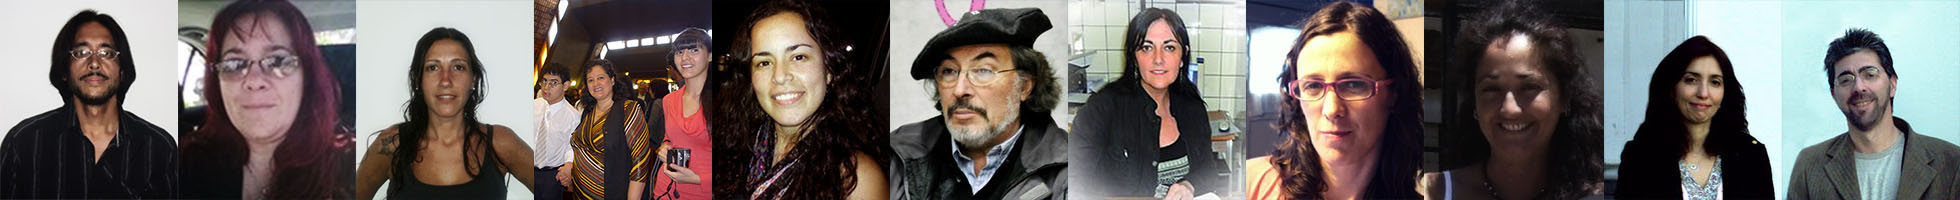
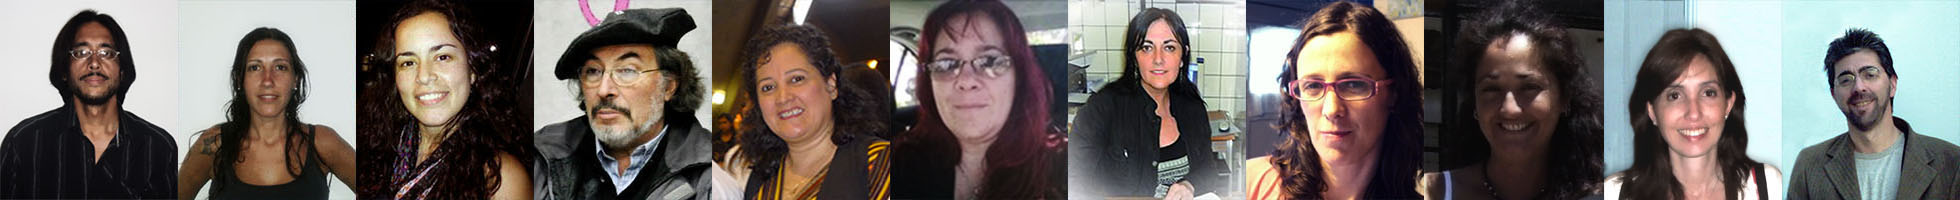
Agosto
Correcciones surgidas del documento presentado por el cliente a fines de
Agosto

diff --git a/pages/fundacion/estructura.html b/pages/fundacion/estructura.html
@@ -9,7 +9,7 @@
 					Licenciado en Terapia Ocupacional de la UNGSM
 				</p>
 				<p>
-					En Itineris es miembro del Equipo de Apoyo Directo del Proyecto de Vida Independiente
+					En Itineris es Coordinador del Movimiento de Autogestores Argentinos
 				</p>
 				<p>
 					Ver CV completo
@@ -20,31 +20,13 @@
 		<li>
 			<a href="#" class="pos2"> <span class="ei_preview"></span> <span class="ei_image"></span> </a>
 			<div class="ei_descr">
-				<h1>Cristina Peduzzi</h1>
-
-				<p>
-					Licenciada en Terapia Ocupacional de la UAI
-				</p>
-				<p>
-					En Itineris es Docente
-				</p>
-				<p>
-					Ver CV completo
-				</p>
-				<div class="cv"><a target="_blank" href="archivos/cv/cristinaP.doc"></a></div>
-			</div>
-
-		</li>
-		<li>
-			<a href="#" class="pos3"> <span class="ei_preview"></span> <span class="ei_image"></span> </a>
-			<div class="ei_descr">
 				<h1>Alejandra Ducet</h1>
 
 				<p>
 					Licenciada en Psicología de la UBA
 				</p>
 				<p>
-					En Itineris es Facilitador de Autogestores
+					En Itineris es Facilitadora de Autogestores y Docente
 				</p>
 				<p>
 					Ver CV completo
@@ -53,24 +35,7 @@
 			</div>
 		</li>
 		<li>
-			<a href="#" class="pos4"> <span class="ei_preview"></span> <span class="ei_image"></span> </a>
-			<div class="ei_descr">
-				<h1>Marta Picca</h1>
-
-				<p>
-					Licenciada en trabajo social
-				</p>
-				<p>
-					En Itineris es Facilitadora de grupos de Autogestores con discapacidad intelectual
-				</p>
-				<p>
-					Ver CV completo
-				</p>
-				<div class="cv"><a target="_blank" href="archivos/cv/familiaG.doc"></a></div>
-			</div>
-		</li>
-		<li>
-			<a href="#" class="pos5"> <span class="ei_preview"></span> <span class="ei_image"></span> </a>
+			<a href="#" class="pos3"> <span class="ei_preview"></span> <span class="ei_image"></span> </a>
 			<div class="ei_descr">
 				<h1>Natalia Galeano</h1>
 
@@ -87,7 +52,7 @@
 			</div>
 		</li>
 		<li>
-			<a href="#" class="pos6"> <span class="ei_preview"></span> <span class="ei_image"></span> </a>
+			<a href="#" class="pos4"> <span class="ei_preview"></span> <span class="ei_image"></span> </a>
 			<div class="ei_descr">
 				<h1>Sergio Coppoli</h1>
 
@@ -95,13 +60,49 @@
 					Licenciado en Psicología de la UNR
 				</p>
 				<p>
-					En Itineris es Facilitador de Autogestores
+					En Itineris es Docente
 				</p>
 				<p>
 					Ver CV completo
 				</p>
 				<div class="cv"><a target="_blank" href="archivos/cv/sergioC.doc"></a></div>
 			</div>
+		</li>
+		
+		<li>
+			<a href="#" class="pos5"> <span class="ei_preview"></span> <span class="ei_image"></span> </a>
+			<div class="ei_descr">
+				<h1>Marta Picca</h1>
+
+				<p>
+					Licenciada en trabajo social
+				</p>
+				<p>
+					En Itineris es Colaboradora
+				</p>
+				<p>
+					Ver CV completo
+				</p>
+				<div class="cv"><a target="_blank" href="archivos/cv/familiaG.doc"></a></div>
+			</div>
+		</li>
+		<li>
+			<a href="#" class="pos6"> <span class="ei_preview"></span> <span class="ei_image"></span> </a>
+			<div class="ei_descr">
+				<h1>Cristina Peduzzi</h1>
+
+				<p>
+					Licenciada en Terapia Ocupacional de la UAI
+				</p>
+				<p>
+					En Itineris es Colaboradora
+				</p>
+				<p>
+					Ver CV completo
+				</p>
+				<div class="cv"><a target="_blank" href="archivos/cv/cristinaP.doc"></a></div>
+			</div>
+
 		</li>
 		<li>
 			<a href="#" class="pos7"> <span class="ei_preview"></span> <span class="ei_image"></span> </a>
@@ -112,7 +113,7 @@
 					Licenciada en Educación especial de la USAL
 				</p>
 				<p>
-					En Itineris es Colaboradora y Tallerista
+					En Itineris es Colaboradora
 				</p>
 				<p>
 					Ver CV completo
@@ -129,7 +130,7 @@
 					Licenciada en Terapia Ocupacional de la UNGSM
 				</p>
 				<p>
-					En Itineris colabora en el área de Investigación
+					En Itineris es Facilitadora de Autogestores y colaboradora
 				</p>
 				<p>
 					Ver CV completo
@@ -146,7 +147,7 @@
 					Licenciado en Terapia Ocupacional
 				</p>
 				<p>
-					En Itineris es Facilitador de Autogestores
+					En Itineris es Facilitadora de Autogestores y docente
 				</p>
 				<p>
 					Ver CV completo

diff --git a/home.html b/home.html
@@ -24,27 +24,22 @@
 				<ul>
 					<li id="diapo1">
 						<p>
-						En Itineris somos profesionales de la salud y la educación, personas con discapacidad intelectual,
-						 sus familiares y también voluntarios. Todos juntos buscamos la inclusión genuina de las
-						  personas con discapacidad en latinoamerica
+						Desde la fundación Itineris buscamos la incusión genuina de las personas con discapacidad en Latinoamérica
 						</p>
 					</li>
 					<li id="diapo2">
 						<p>
-						Desde hace 15 años, producimos cambios significativos en el imaginario social. Así desafiamos las 
-						creencias negativas y limitantes que se imponen de manera paternalista sobre los adultos y niños con discapacidad.
+						Desde 1999 producimos cambios significativos en el imaginario social, desafiando las ceencias negativas y limitantes sobre las personas con discapacidad
 						</p>
 					</li>
 					<li id="diapo3">
 						<p>
-						Nos comprometemos estratégicamente para cambiar las prácticas sociales e institucionales. Queremos la plena inclusión y 
-						el ejercicio de los derechos humanos consagrados en la Convención sobre los derechos de las personas con discapacidad de la ONU
+						Nos comprometemos estratégicamente para cambiar las prácticas sociales e institucionales. Así logramos que las personas con discapacidad sean protagonistas de sus vidas
 						</p>
 					</li>
 					<li id="diapo4">
 						<p>
-						Queremos personas con discapacidad que puedan ser protagonistas de sus vidas. Que se encuentren plenamente incluidas, 
-						en igualdad de oportunidades, como ciudadanos articulados dentro de su comunidad
+						Usamos herramientas propias para que las personas con discapacidad se articulen en sus comunidades como ciudadanos comunes
 						</p>
 					</li>
 				</ul>
@@ -53,7 +48,7 @@
 				<div class="linkHome agrandable">
 					<h1>Congreso de Rosario</h1>
 					<p>
-						3er Congreso internacional de discapacidad Mental, 30 y 31 de Octubre de 2014
+						3er Congreso internacional de discapacidad Intelectual, 30 y 31 de Octubre de 2014
 					</p>
 					<a class="pie" href="http://www.afidi.com.ar/contenidos/2014/04/09/Editorial_2791.php" target="_blank" tabindex="31">Más información</a>
 				</div>
@@ -67,7 +62,7 @@
 				<div class="linkHome agrandable">
 					<h1>Revista nuestros Contenidos</h1>
 					<p>
-						Investigación y práxis Latinoamericana en discapacidad, la primer revista científica latinoamericana sobre discapacidad. 
+						Investigación y praxis Latinoamericana en discapacidad, la primer revista científica latinoamericana sobre discapacidad. 
 
 					</p>
 					<a class="pie" href="biblioteca.html" tabindex="33">Más Información</a>

diff --git a/index.html b/index.html
@@ -24,27 +24,22 @@
 				<ul>
 					<li id="diapo1">
 						<p>
-						En Itineris somos profesionales de la salud y la educación, personas con discapacidad intelectual,
-						 sus familiares y también voluntarios. Todos juntos buscamos la inclusión genuina de las
-						  personas con discapacidad en latinoamerica
+						Desde la fundación Itineris buscamos la incusión genuina de las personas con discapacidad en Latinoamérica
 						</p>
 					</li>
 					<li id="diapo2">
 						<p>
-						Desde hace 15 años, producimos cambios significativos en el imaginario social. Así desafiamos las 
-						creencias negativas y limitantes que se imponen de manera paternalista sobre los adultos y niños con discapacidad.
+						Desde 1999 producimos cambios significativos en el imaginario social, desafiando las ceencias negativas y limitantes sobre las personas con discapacidad
 						</p>
 					</li>
 					<li id="diapo3">
 						<p>
-						Nos comprometemos estratégicamente para cambiar las prácticas sociales e institucionales. Queremos la plena inclusión y 
-						el ejercicio de los derechos humanos consagrados en la Convención sobre los derechos de las personas con discapacidad de la ONU
+						Nos comprometemos estratégicamente para cambiar las prácticas sociales e institucionales. Así logramos que las personas con discapacidad sean protagonistas de sus vidas
 						</p>
 					</li>
 					<li id="diapo4">
 						<p>
-						Queremos personas con discapacidad que puedan ser protagonistas de sus vidas. Que se encuentren plenamente incluidas, 
-						en igualdad de oportunidades, como ciudadanos articulados dentro de su comunidad
+						Usamos herramientas propias para que las personas con discapacidad se articulen en sus comunidades como ciudadanos comunes
 						</p>
 					</li>
 				</ul>
@@ -53,7 +48,7 @@
 				<div class="linkHome agrandable">
 					<h1>Congreso de Rosario</h1>
 					<p>
-						3er Congreso internacional de discapacidad Mental, 30 y 31 de Octubre de 2014
+						3er Congreso internacional de discapacidad Intelectual, 30 y 31 de Octubre de 2014
 					</p>
 					<a class="pie" href="http://www.afidi.com.ar/contenidos/2014/04/09/Editorial_2791.php" target="_blank" tabindex="31">Más información</a>
 				</div>
@@ -67,7 +62,7 @@
 				<div class="linkHome agrandable">
 					<h1>Revista nuestros Contenidos</h1>
 					<p>
-						Investigación y práxis Latinoamericana en discapacidad, la primer revista científica latinoamericana sobre discapacidad. 
+						Investigación y praxis Latinoamericana en discapacidad, la primer revista científica latinoamericana sobre discapacidad. 
 
 					</p>
 					<a class="pie" href="biblioteca.html" tabindex="33">Más Información</a>

diff --git a/pages/consultoria/optimizacion.html b/pages/consultoria/optimizacion.html
@@ -1,12 +1,4 @@
 <p class="texto">
-	El funcionamiento jerárquico de las instituciones es conocido desde el comienzo de la civilización,
-	pero es el funcionamiento horizontal el que se transformó en un factor clave para el desarrollo institucional en las Ãºltimas décadas.
-</p>
-<p class="texto">
-	En el campo de la discapacidad, el trabajo transdisciplinario en equipos y la labor interinstitucional en redes de actores sociales diversos, está en boca de todos y en
-	las intenciones de la mayoría de las organizaciones. Pero su implementación no es sistemática; no sabemos hacer lo que decimos que tenemos que hacer.
-</p>
-<p class="texto">
 	El Programa de optimización institucional le permite
 </p>
 <ul class="listaD">
@@ -23,3 +15,8 @@
 		Detectar cuales son los pasos estratégicos que debe dar.
 	</li>
 </ul>
+
+<p class="texto">
+	En el campo de la discapacidad, el trabajo transdisciplinario en equipos y la labor interinstitucional en redes de actores sociales diversos, está en boca de todos y en
+	las intenciones de la mayoría de las organizaciones. Pero su implementación no es sistemática; no sabemos hacer lo que decimos que tenemos que hacer.
+</p>

diff --git a/js/cons.js b/js/cons.js
@@ -1,6 +1,6 @@
 var navegacion = {};
 
-navegacion["auditoriaycerti"] = "pages/consultoria/auditoriaycerti.html";
+navegacion["audycerti"] = "pages/consultoria/auditoriaycerti.html";
 navegacion["capaysuper"] = "pages/consultoria/capaysuper.html";
 navegacion['consultoria'] = "pages/consultoria/consultoriaprincipal.html";
 navegacion['desaproy'] = "pages/consultoria/desaproy.html";
@@ -35,7 +35,7 @@ $(document).ready(function() {
 		$('#header').html(msg);
 		$.get("footer.html", function(footCont) {
 			$('#footer').html(footCont);
-			$("#fondoHeader").height($("#header").height() - $("#menu").height() - 1);
+			$("#fondoHeader").height($("#header").height() - $("#menu").height() - 5);
 			var altura1 = $("html").height() - $("#header").height() - $("#footer").height() - 5;
 			//el 5 es por el padding
 			var altura2 = $("#cuerpo").height() * 1.1 + $("#cuerpoGrande").height() * 1.1 + $("#cuerpoDonar").height() * 1.1;

diff --git a/pages/consultoria/capaysuper.html b/pages/consultoria/capaysuper.html
@@ -2,9 +2,7 @@
 Las Capacitaciones en equipo constan de 4 a 6 encuentros, de 3 horas cada uno, durante un año, con el objetivo de actualizar contenidos, 
 prácticas y sistemas de evaluación. El contenido de la capacitación se ajusta a los intereses de la organización y se brinda simultáneamente a todos los trabajadores.
 </p>
-<p class="texto">
-En 15 años, la Fundación ITINERIS capacitó 2520 trabajadores, 696 familias, 393 personas con discapacidad intelectual y 140 voluntarios.
-</p>
+
 <p class="texto">
 La Supervisión es la metodología adecuada para aprender sobre cuestiones prácticas y problemas concretos. Pueden realizarla grupos pequeños o grandes 
 de personas que tengan experiencia en reflexionar sobre su trabajo junto con otros, aplicando un marco teórico para guiar su mirada

diff --git a/js/biblio.js b/js/biblio.js
@@ -23,7 +23,7 @@ $(document).ready(function() {
 		$('#header').html(msg);
 		$.get("footer.html", function(footCont) {
 			$('#footer').html(footCont);
-			$("#fondoHeader").height($("#header").height() - $("#menu").height() - 1);
+			$("#fondoHeader").height($("#header").height() - $("#menu").height() - 5);
 			var altura1 = $("html").height() - $("#header").height() - $("#footer").height() - 5;
 			//el 5 es por el padding
 			var altura2 = $("#cuerpo").height() * 1.1 + $("#cuerpoGrande").height() * 1.1 + $("#cuerpoDonar").height() * 1.1;

diff --git a/js/cyt.js b/js/cyt.js
@@ -32,7 +32,7 @@ $(document).ready(function() {
 		$('#header').html(msg);
 		$.get("footer.html", function(footCont) {
 			$('#footer').html(footCont);
-			$("#fondoHeader").height($("#header").height() - $("#menu").height() - 1);
+			$("#fondoHeader").height($("#header").height() - $("#menu").height() - 5);
 			var altura1 = $("html").height() - $("#header").height() - $("#footer").height() - 5;
 			//el 5 es por el padding
 			var altura2 = $("#cuerpo").height() * 1.1 + $("#cuerpoGrande").height() * 1.1 + $("#cuerpoDonar").height() * 1.1;

diff --git a/js/donar.js b/js/donar.js
@@ -16,7 +16,7 @@ $(document).ready(function() {
 		$('#header').html(msg);
 		$.get("footer.html", function(footCont) {
 			$('#footer').html(footCont);
-			$("#fondoHeader").height($("#header").height() - $("#menu").height() - 1);
+			$("#fondoHeader").height($("#header").height() - $("#menu").height() - 5);
 			var altura1 = $("html").height() - $("#header").height() - $("#footer").height() - 5;
 			//el 5 es por el padding
 			var altura2 = $("#cuerpo").height() * 1.1 + $("#cuerpoGrande").height() * 1.1 + $("#cuerpoDonar").height() * 1.1;

diff --git a/js/fundacion.js b/js/fundacion.js
@@ -17,7 +17,7 @@ $(document).ready(function() {
 		$('#header').html(msg);
 		$.get("footer.html", function(footCont) {
 			$('#footer').html(footCont);
-			$("#fondoHeader").height($("#header").height() - $("#menu").height() - 1);
+			$("#fondoHeader").height($("#header").height() - $("#menu").height() - 5);
 			var altura1 = $("html").height() - $("#header").height() - $("#footer").height() - 5;
 			//el 5 es por el padding
 			var altura2 = $("#cuerpo").height() * 1.1 + $("#cuerpoGrande").height() * 1.1 + $("#cuerpoDonar").height() * 1.1;

diff --git a/js/home.js b/js/home.js
@@ -73,7 +73,7 @@ $(document).ready(function() {
 		$('#header').html(msg);
 		$.get("footer.html", function(footCont) {
 			$('#footer').html(footCont);
-			$("#fondoHeader").height($("#header").height() - $("#menu").height() - 1);
+			$("#fondoHeader").height($("#header").height() - $("#menu").height() - 5);
 			var altura1 = $("html").height() - $("#header").height() - $("#footer").height() - 5;
 			//el 5 es por el padding
 			var altura2 = $("#cuerpo").height() * 1.1 + $("#cuerpoGrande").height() * 1.1 + $("#cuerpoDonar").height() * 1.1;

diff --git a/js/basico.js b/js/basico.js
@@ -5,7 +5,7 @@ $(document).ready(function() {
 		$('#header').html(msg);
 		$.get("footer.html", function(footCont) {
 			$('#footer').html(footCont);
-			$("#fondoHeader").height($("#header").height() - $("#menu").height() - 1);
+			$("#fondoHeader").height($("#header").height() - $("#menu").height() - 5);
 			var altura1 = $("html").height() - $("#header").height() - $("#footer").height() - 5;
 			//el 5 es por el padding
 			var altura2 = $("#cuerpo").height() * 1.1 + $("#cuerpoGrande").height() * 1.1 + $("#cuerpoDonar").height() * 1.1;
